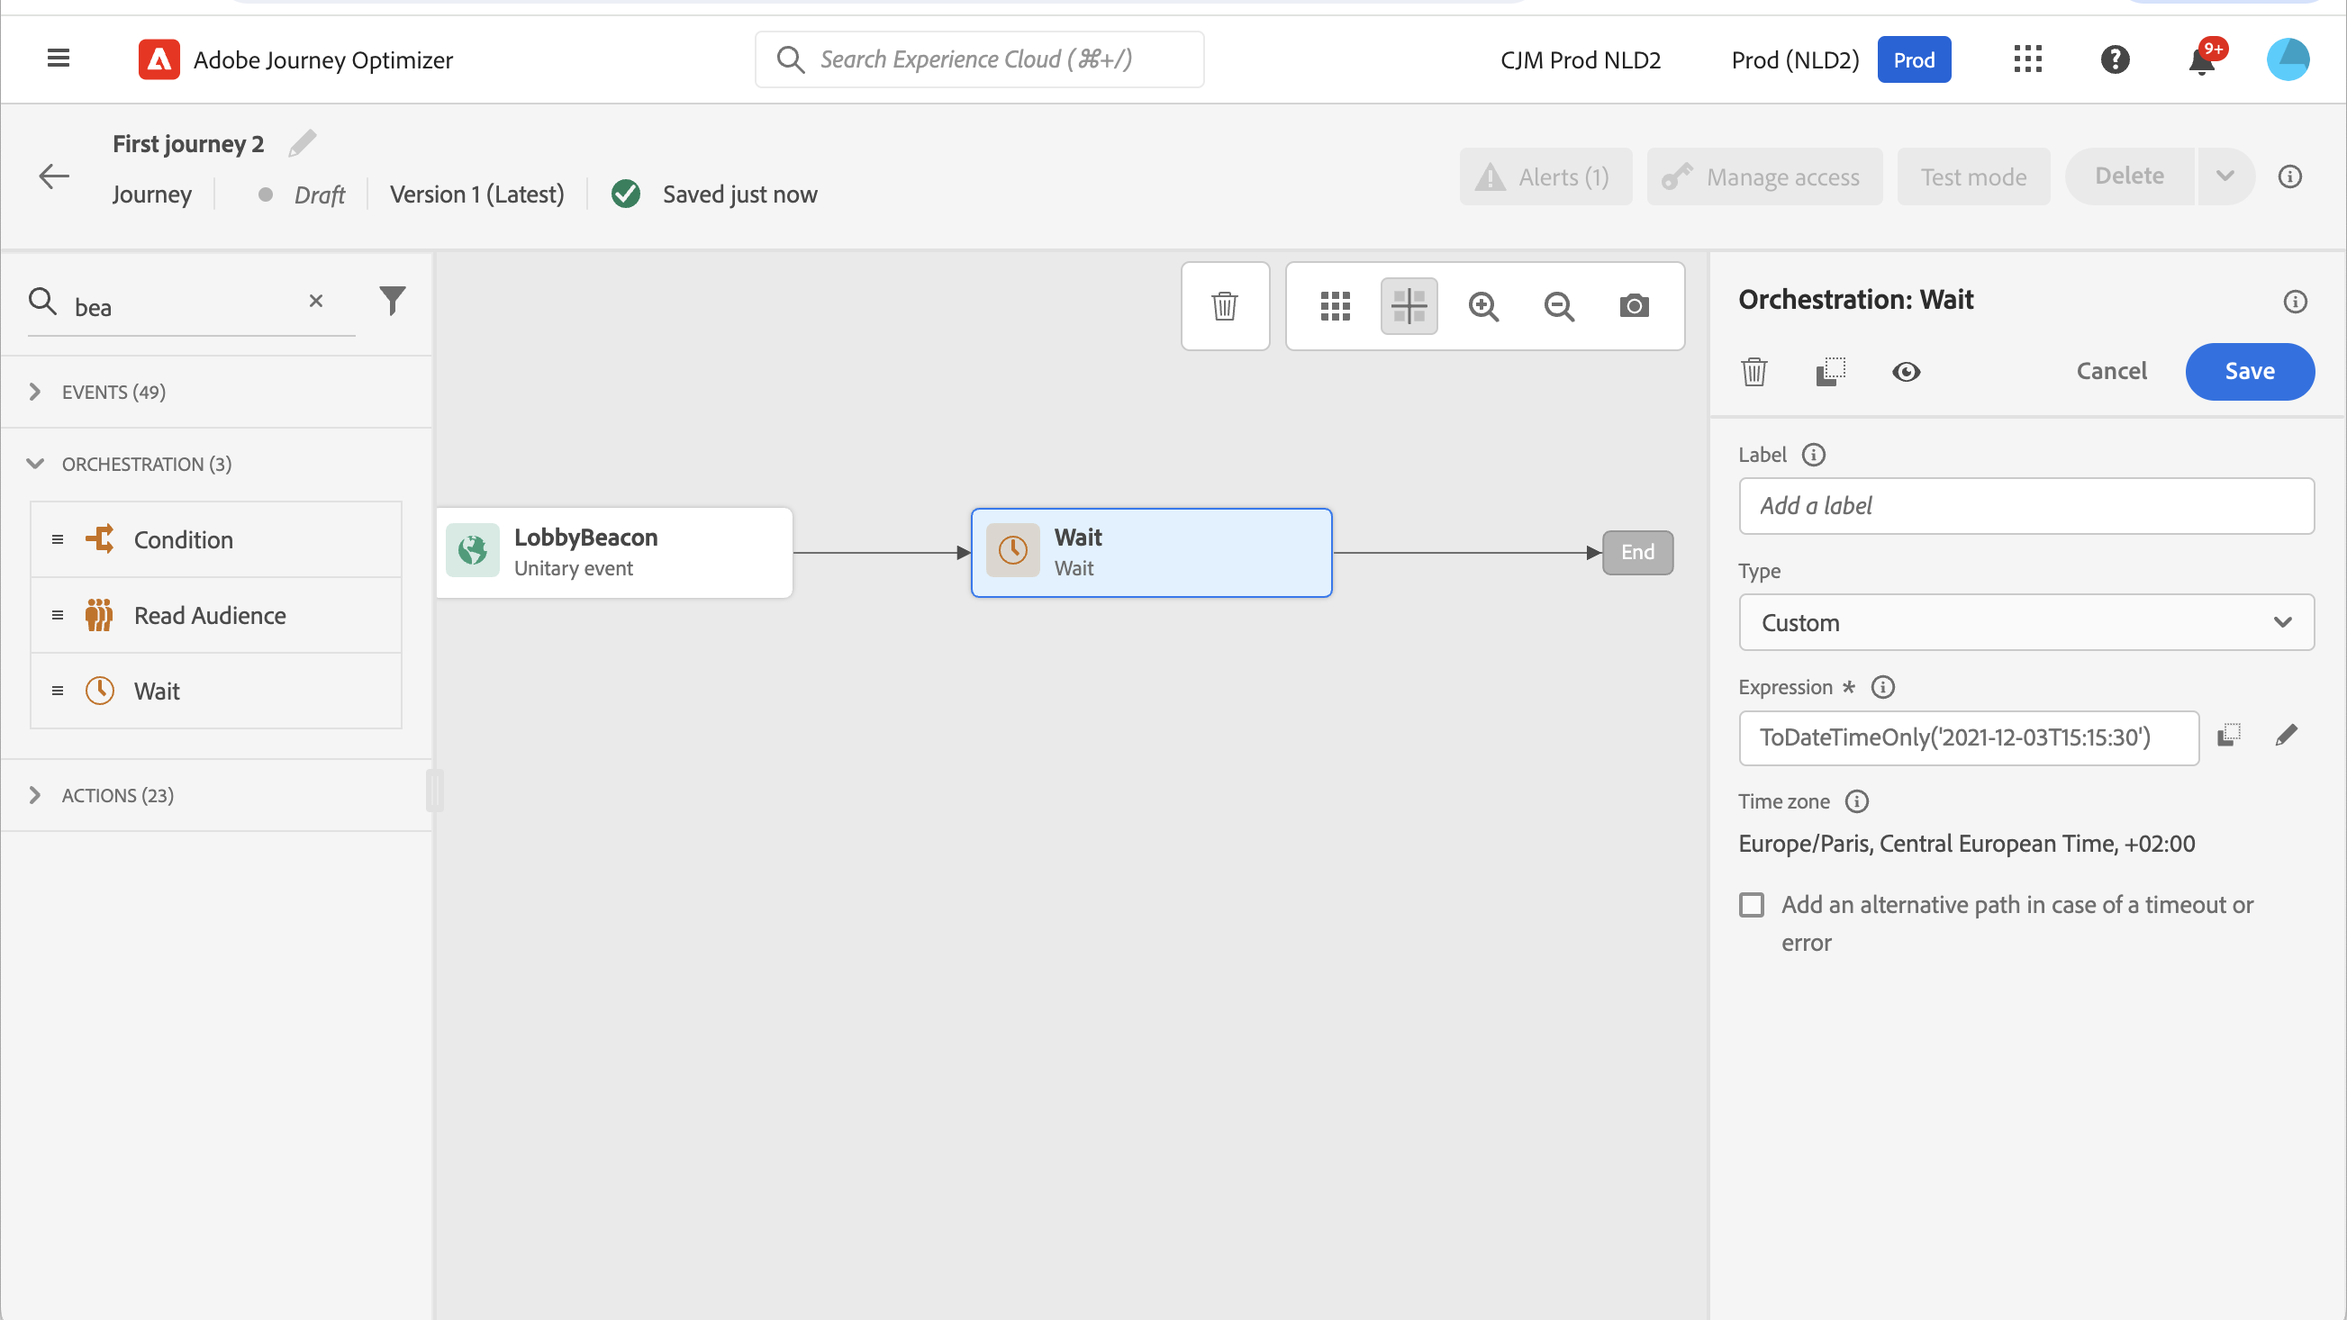
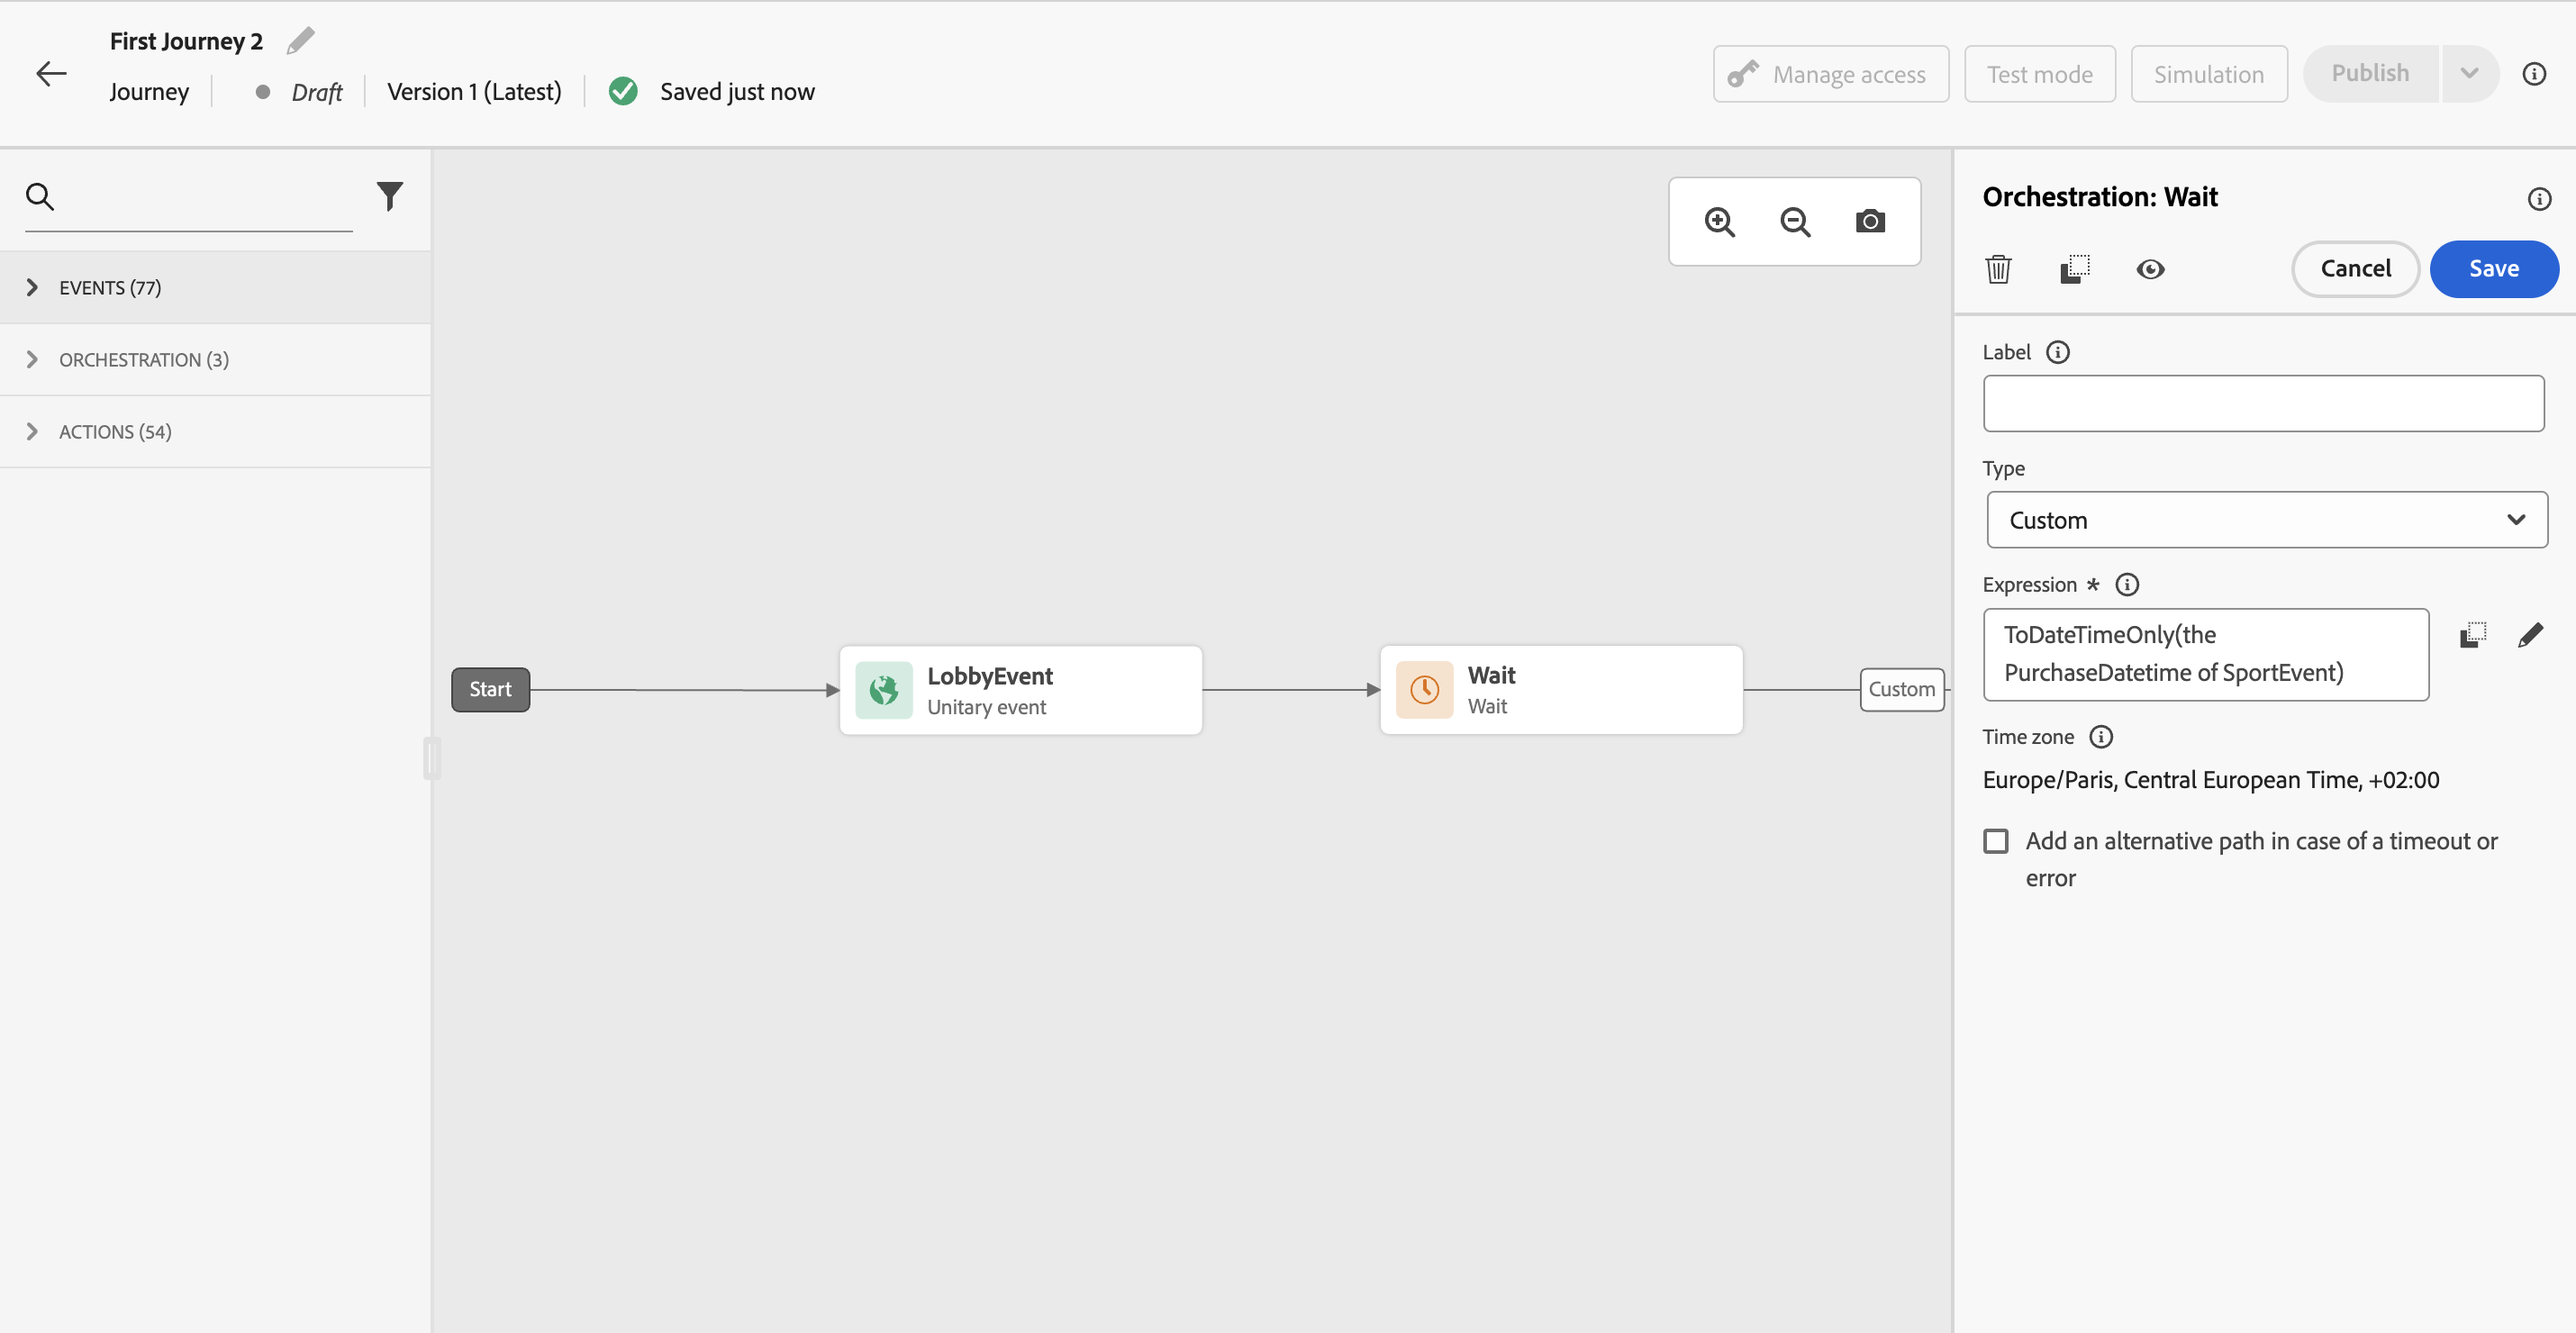
DOCAC-10520

diff --git a/help/using/building-journeys/wait-activity.md b/help/using/building-journeys/wait-activity.md
@@ -2,7 +2,7 @@
 solution: Journey Optimizer
 product: journey optimizer
 title: Wait activity
-description: Learn about the wait activity
+description: Learn how to configure the wait activity
 feature: Journeys, Activities
 topic: Content Management
 role: User
@@ -10,14 +10,14 @@ level: Intermediate
 keywords: wait, activity, journey, next, canvas
 exl-id: 7268489a-38c1-44da-b043-f57aaa12d7d5
 ---
-# Wait activity{#wait-activity}
+# Wait activity {#wait-activity}
 
 >[!CONTEXTUALHELP]
 >id="ajo_journey_wait"
 >title="Wait activity"
 >abstract="If you want to wait before executing the next activity in the path, you can use a Wait activity. It allows you to define the moment when the next activity will be executed. Two options are available: duration and custom."
 
-If you want to wait before executing the next activity in the path, you can use a **[!UICONTROL Wait]** activity. It allows you to define the moment when the next activity will be executed. The following options are available:
+You can use a **[!UICONTROL Wait]** activity to define a duration before executing the next activity. The following options are available:
 
 * [Duration](#duration) 
 * [Custom](#custom) 
@@ -27,21 +27,21 @@ If you want to wait before executing the next activity in the path, you can use 
 * [Fixed date](#fixed_date) 
 -->
 
-## About the Wait activity{#about_wait}
+## About the Wait activity {#about_wait}
 
-The maximum wait duration is 29 days. In test mode, the **[!UICONTROL Wait time in test]** parameter allows you to define the time that each wait activity will last. The default time is 10 seconds. This will ensure that you get the test results quickly. See [this page](../building-journeys/testing-the-journey.md).
+The maximum wait duration is 29 days. In test mode, the **[!UICONTROL Wait time in test]** parameter allows you to define the time that each wait activity will last. The default time is 10 seconds. This will ensure that you get the test results quickly. Learn more in [this page](../building-journeys/testing-the-journey.md).
 
-Be cautious when using multiple Wait activities in a journey as the global journey timeout is 30 days, meaning that a profile will always drop out of the journey maximum 30 days after he/she entered it. See [this page](../building-journeys/journey-gs.md#global_timeout).
+Be cautious when using multiple **Wait** activities in a journey as the global journey timeout is 30 days, meaning that a profile will always drop out of the journey maximum 30 days after he/she entered it. Learn more in [this page](../building-journeys/journey-gs.md#global_timeout).
 
-An individual can enter a wait activity only if he or she has enough time left in the journey to complete the wait duration before the 30 days journey timeout. For example, if you add two wait activities set to 20 days each, the system will detect that the second wait will end after the 30 days timeout. The second wait will therefore be ignored and the individual will exit the journey before starting it. In that example, the customer will stay 20 days in total in the journey.
+An individual can enter a **Wait** activity only if they have enough time left in the journey to complete the wait duration before the 30 days journey timeout. For example, if you add two **Wait** activities set to 20 days each, the system detects that the second **Wait** activity will end after the 30 days timeout. The second **Wait** activity will therefore be ignored and the individual will exit the journey before starting it. In that example, the customer will stay 20 days in total in the journey.
 
-It is a best practice to not use waits to block re-entrance. Instead, use the **Allow re-entrance** option at the journey properties level. See [this page](../building-journeys/journey-gs.md#entrance).
+A best practice to not use **Wait** activities to block re-entrance. Instead, use the **Allow re-entrance** option at the journey properties level. Learn more in [this page](../building-journeys/journey-gs.md#entrance).
 
-## Duration wait{#duration}
+## Duration wait {#duration}
 
 Select the duration of the wait before the execution of the next activity. The maximum duration is 29 days.
 
-![](assets/journey55.png)
+![Define the wait duration](assets/journey55.png)
 
 <!--
 ## Fixed date wait{#fixed_date}
@@ -52,19 +52,25 @@ Select the date for the execution of the next activity.
 
 -->
 
-## Custom wait{#custom}
+## Custom wait {#custom}
 
-This option lets you define a custom date, for example 12 July 2023 at 5pm, using an advanced expression based on a field coming from an event or a data source. It does not let you define a custom duration, for example, 7 days. The expression in the expression editor should provide a dateTimeOnly format. Refer to this [page](expression/expressionadvanced.md). For more information on dateTimeOnly format, see this [page](expression/data-types.md).
+Use the **Custom** type to define a custom date, using an advanced expression based on a field coming from an event or a custom action response. You cannot define a relative duration directly, for example, 7 days, but you can use functions to calculate it if needed (eg: 2 days after purchase). 
+
+![Define a custom wait with an expression](assets/journey57.png)
+
+The expression in the editor should provide a `dateTimeOnly` format. Refer to [this page](expression/expressionadvanced.md). For more information on dateTimeOnly format, refer to [this page](expression/data-types.md).
+
+Best practice is to use custom dates that are specific to your profiles, and avoid using the same date for all. For example, do not define `toDateTimeOnly('2024-01-01T01:11:00Z')` but rather `toDateTimeOnly(@event{Event.productDeliveryDate})` which is specific to each profile. Be aware that using fixed dates can cause issues on your journey execution. 
+
 
 >[!NOTE]
 >
->You can leverage a dateTimeOnly expression or use a function to convert to a dateTimeOnly. For example: toDateTimeOnly(@event{Event.offerOpened.activity.endTime}), the field in the event being of the form 2023-08-12T09:46:06Z.
+>You can leverage a `dateTimeOnly` expression or use a function to convert to a `dateTimeOnly`. For example: `toDateTimeOnly(@event{Event.offerOpened.activity.endTime})`, the field in the event being of the form 2023-08-12T09:46:06Z.
 >
->The **time zone** is expected in the properties of your journey. As a result, it is not possible today from the interface to directly point at a full ISO-8601 timestamp mixing time and time zone offset like 2023-08-12T09:46:06.982-05. See [this page](../building-journeys/timezone-management.md).
+>The **time zone** is expected in the properties of your journey. As a result, from the user interface, it is not possible to directly point at a full ISO-8601 timestamp mixing time and time zone offset like 2023-08-12T09:46:06.982-05. [Learn more](../building-journeys/timezone-management.md).
 
-![](assets/journey57.png)
 
-To validate that the wait activity works as expected, you can use step events. See [this page](../reports/query-examples.md#common-queries).
+To validate that the wait activity works as expected, you can use step events. [Learn more](../reports/query-examples.md#common-queries).
 
 <!--## Email send time optimization{#email_send_time_optimization}
 
